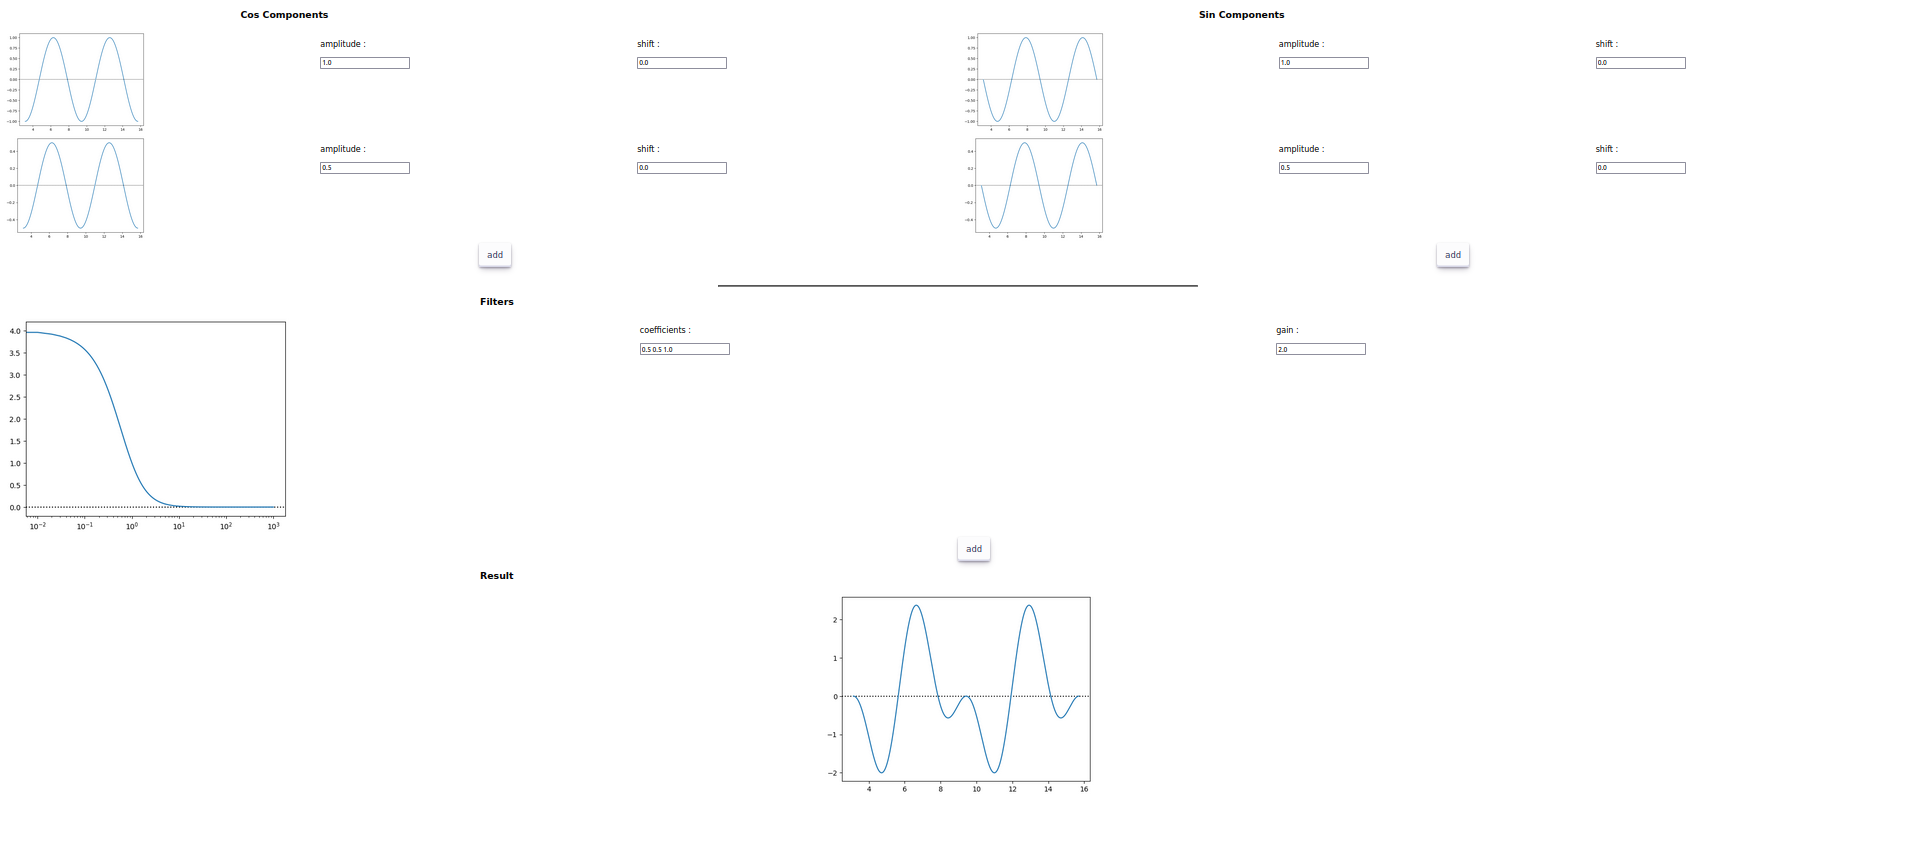
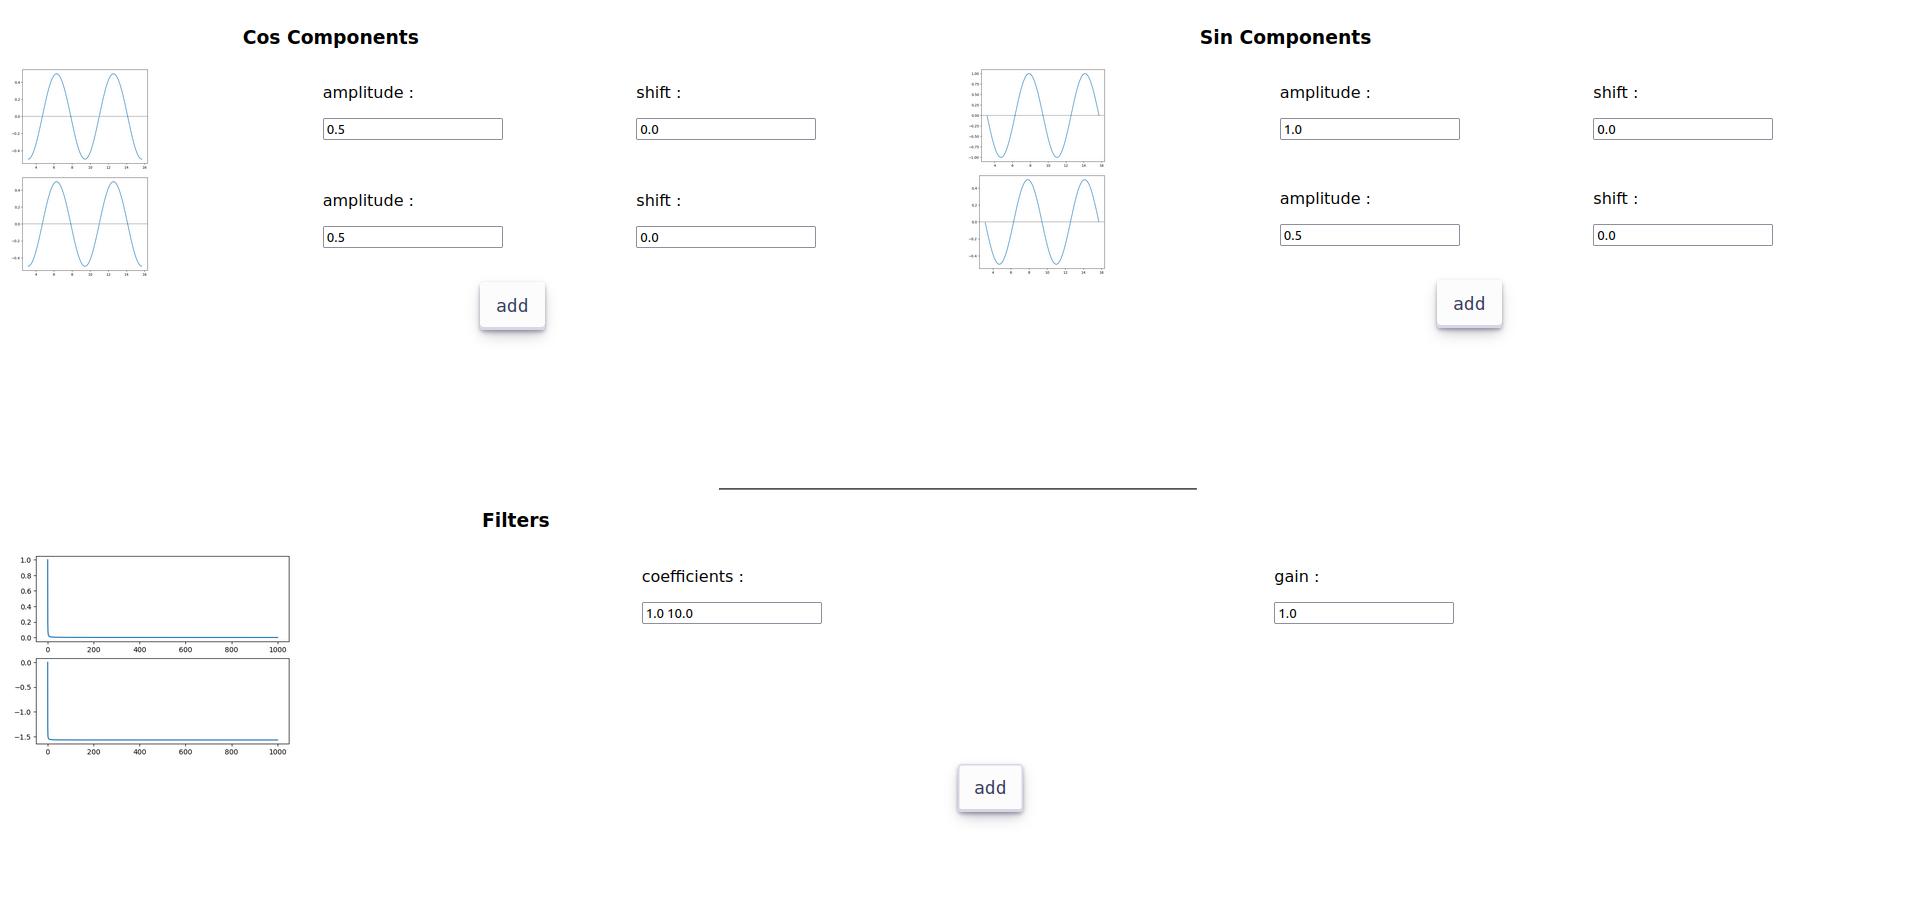
updated doc

diff --git a/README.md b/README.md
@@ -1,38 +1,52 @@
 # AudioGen
 
 ![Visual](./doc/Visual.png)
+![Visual](./doc/Visual2.png)
 
 A basic wave generator and filtering API (with sound !)
 
 # Description
 
 This website, is an interface to a signal processing API.
-The API, developped with fastapi, is composed of two routes,
+The API, developped with fastapi, is composed of several routes,
 
-- Get_Wave_With :
-
-needs a json of the form
-```json
-{
-    "amplitudes" : [],
-    "shifts" : [],
-    "functions" : []
-}
-```
-
-and return an image of the wave as described by the JSON
-
-- Get_Filter_With :
+- /Get_Wave_With :
 
 needs a json of the form
 ```json
 {
-    "coefficients" : ["order", "fc/f0", "Q"],
-    "gain" : "int"
+    "amplitudes" : [1.0, 2.0, 0.5],
+    "shifts"     : [0.2, 0.5, 1.2],
+    "functions"  : ["Cos", "Sin", "Sin"]
 }
 ```
 
-and return an image of the filter as described by the JSON
+and return an image of the wave.
+
+- /Get_Wave_Sound :
+
+needs a json of the form
+```json
+{
+    "amplitudes" : [1.0, 2.0, 0.5],
+    "shifts"     : [0.2, 0.5, 1.2],
+    "functions"  : ["Cos", "Sin", "Sin"]
+}
+```
+
+and return a base64 encoding of a .wav file of the wave
+
+- /Get_Filter_With :
+
+needs a json of the form
+```json
+{
+    "coefficients" : [2.0, 10.0, 2.0], // "order", "fc/f0", "Q"
+    "gain" : 2.0
+}
+```
+
+and return an image of the filter.
 
 Each time an input is modified, a call to the backend is done in order to update
 both the image associated with the modification, and the final result. Response
@@ -49,7 +63,6 @@ Either way, those are :
 - scipy >= 1.10.1
 - matplotlib >= 3.7.5
 - fastAPI >= 0.1.0
-- pymp3 >= 0.2.0
 - Unittest
 
 To lunch the backend, please use ```fastapi dev src/server/app.py``` in ./src
